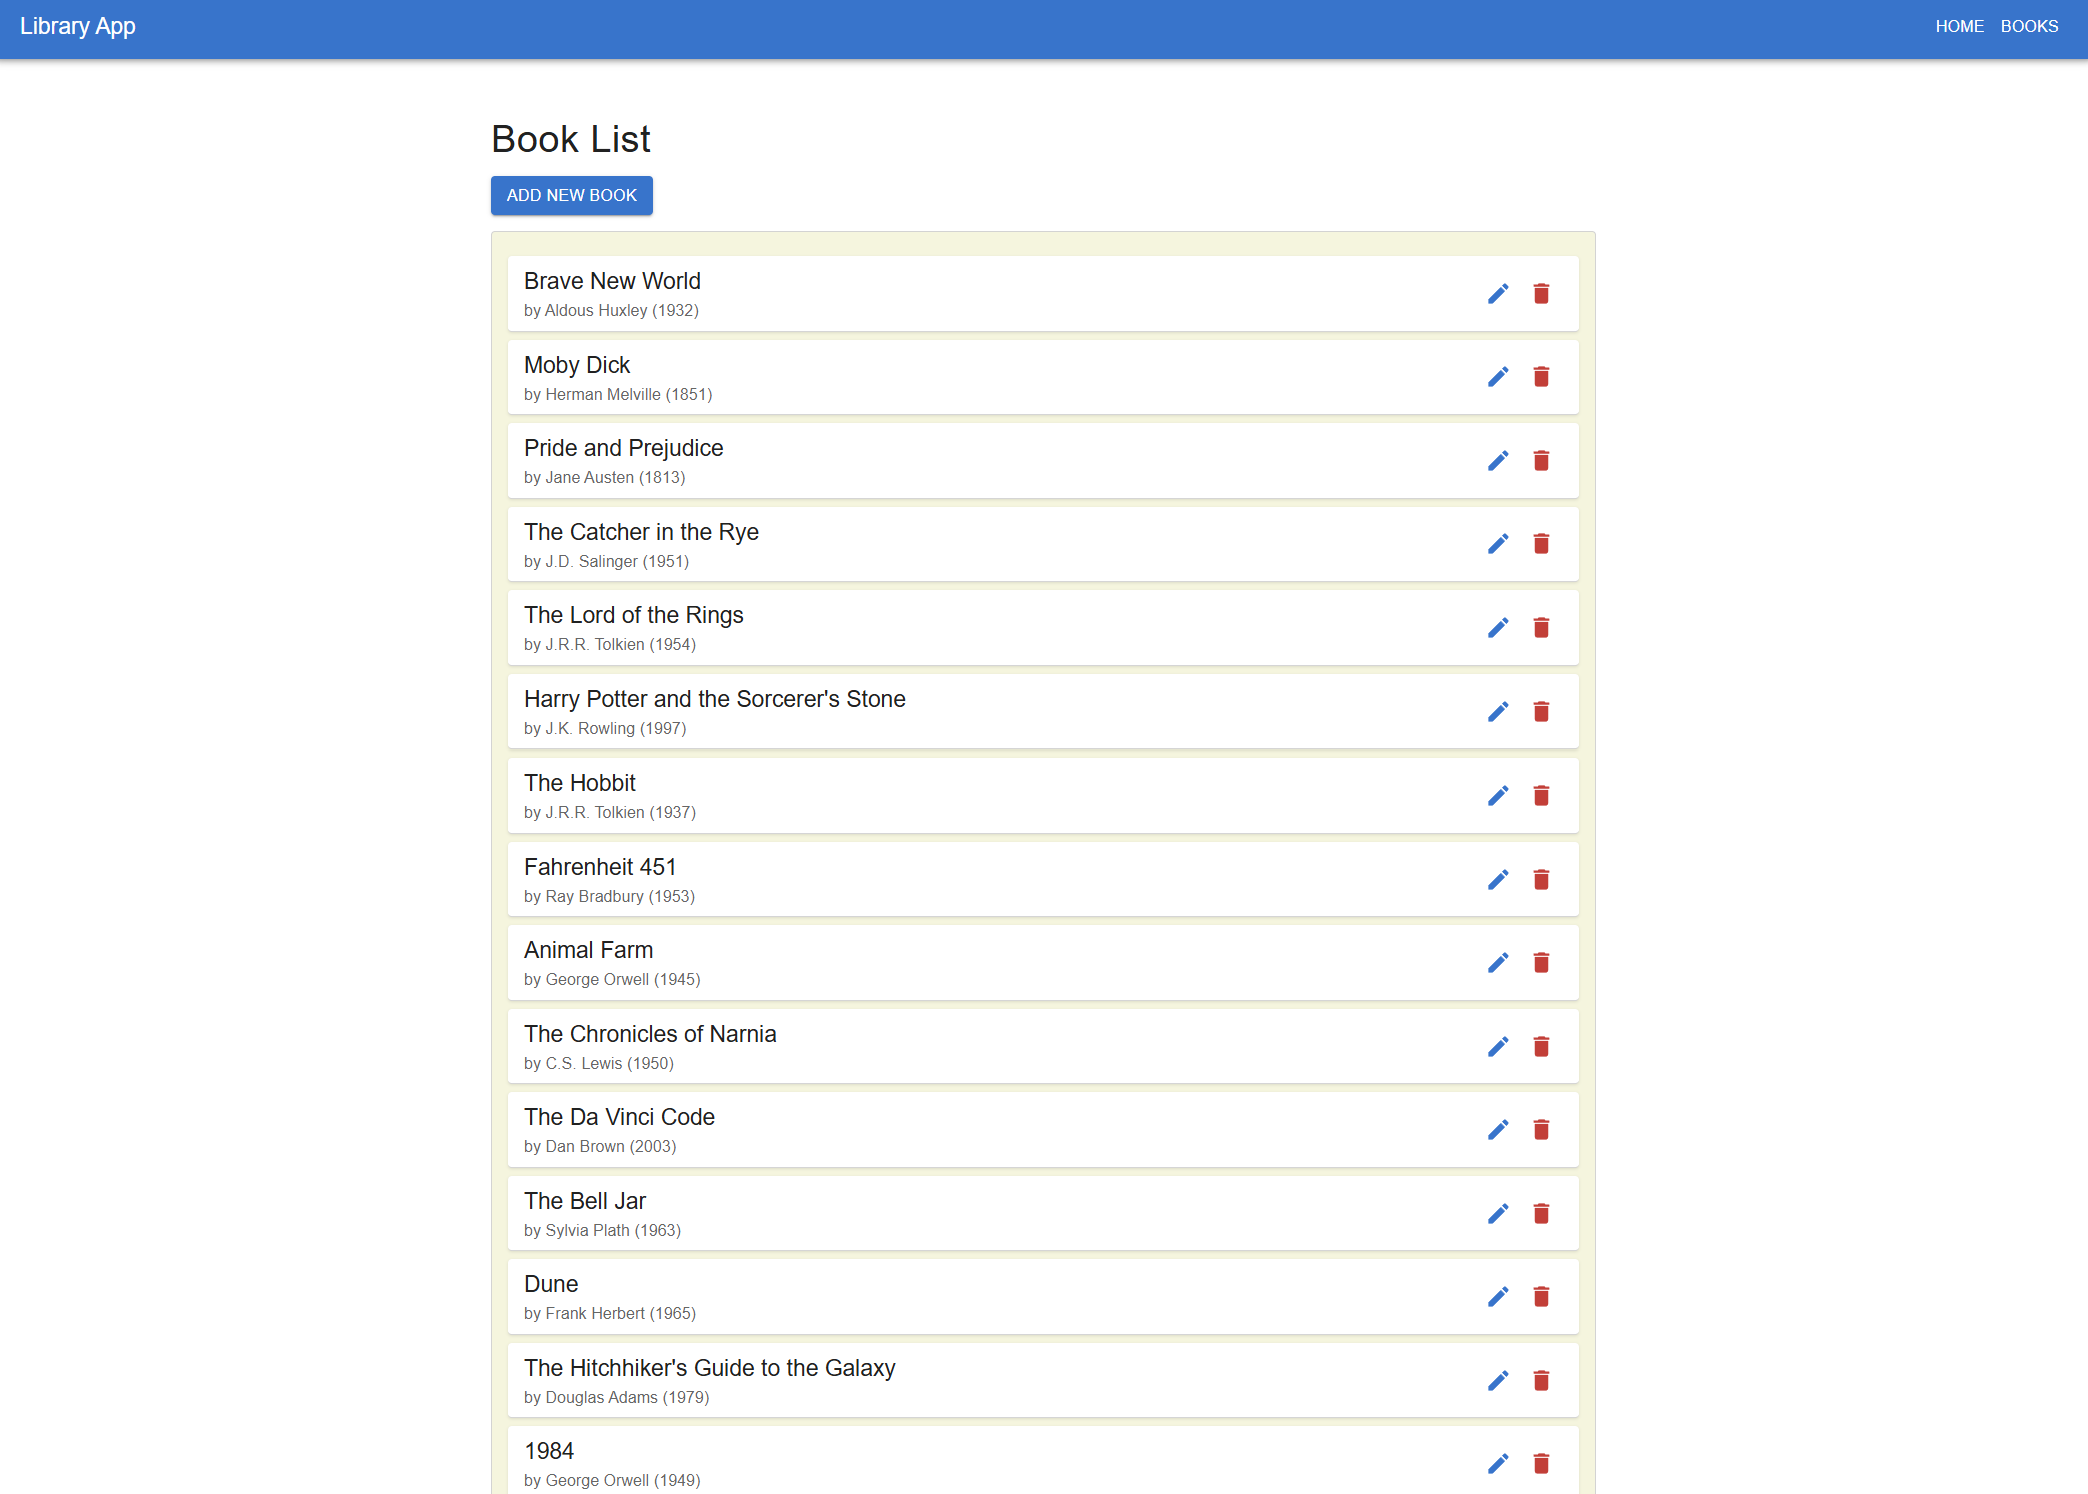
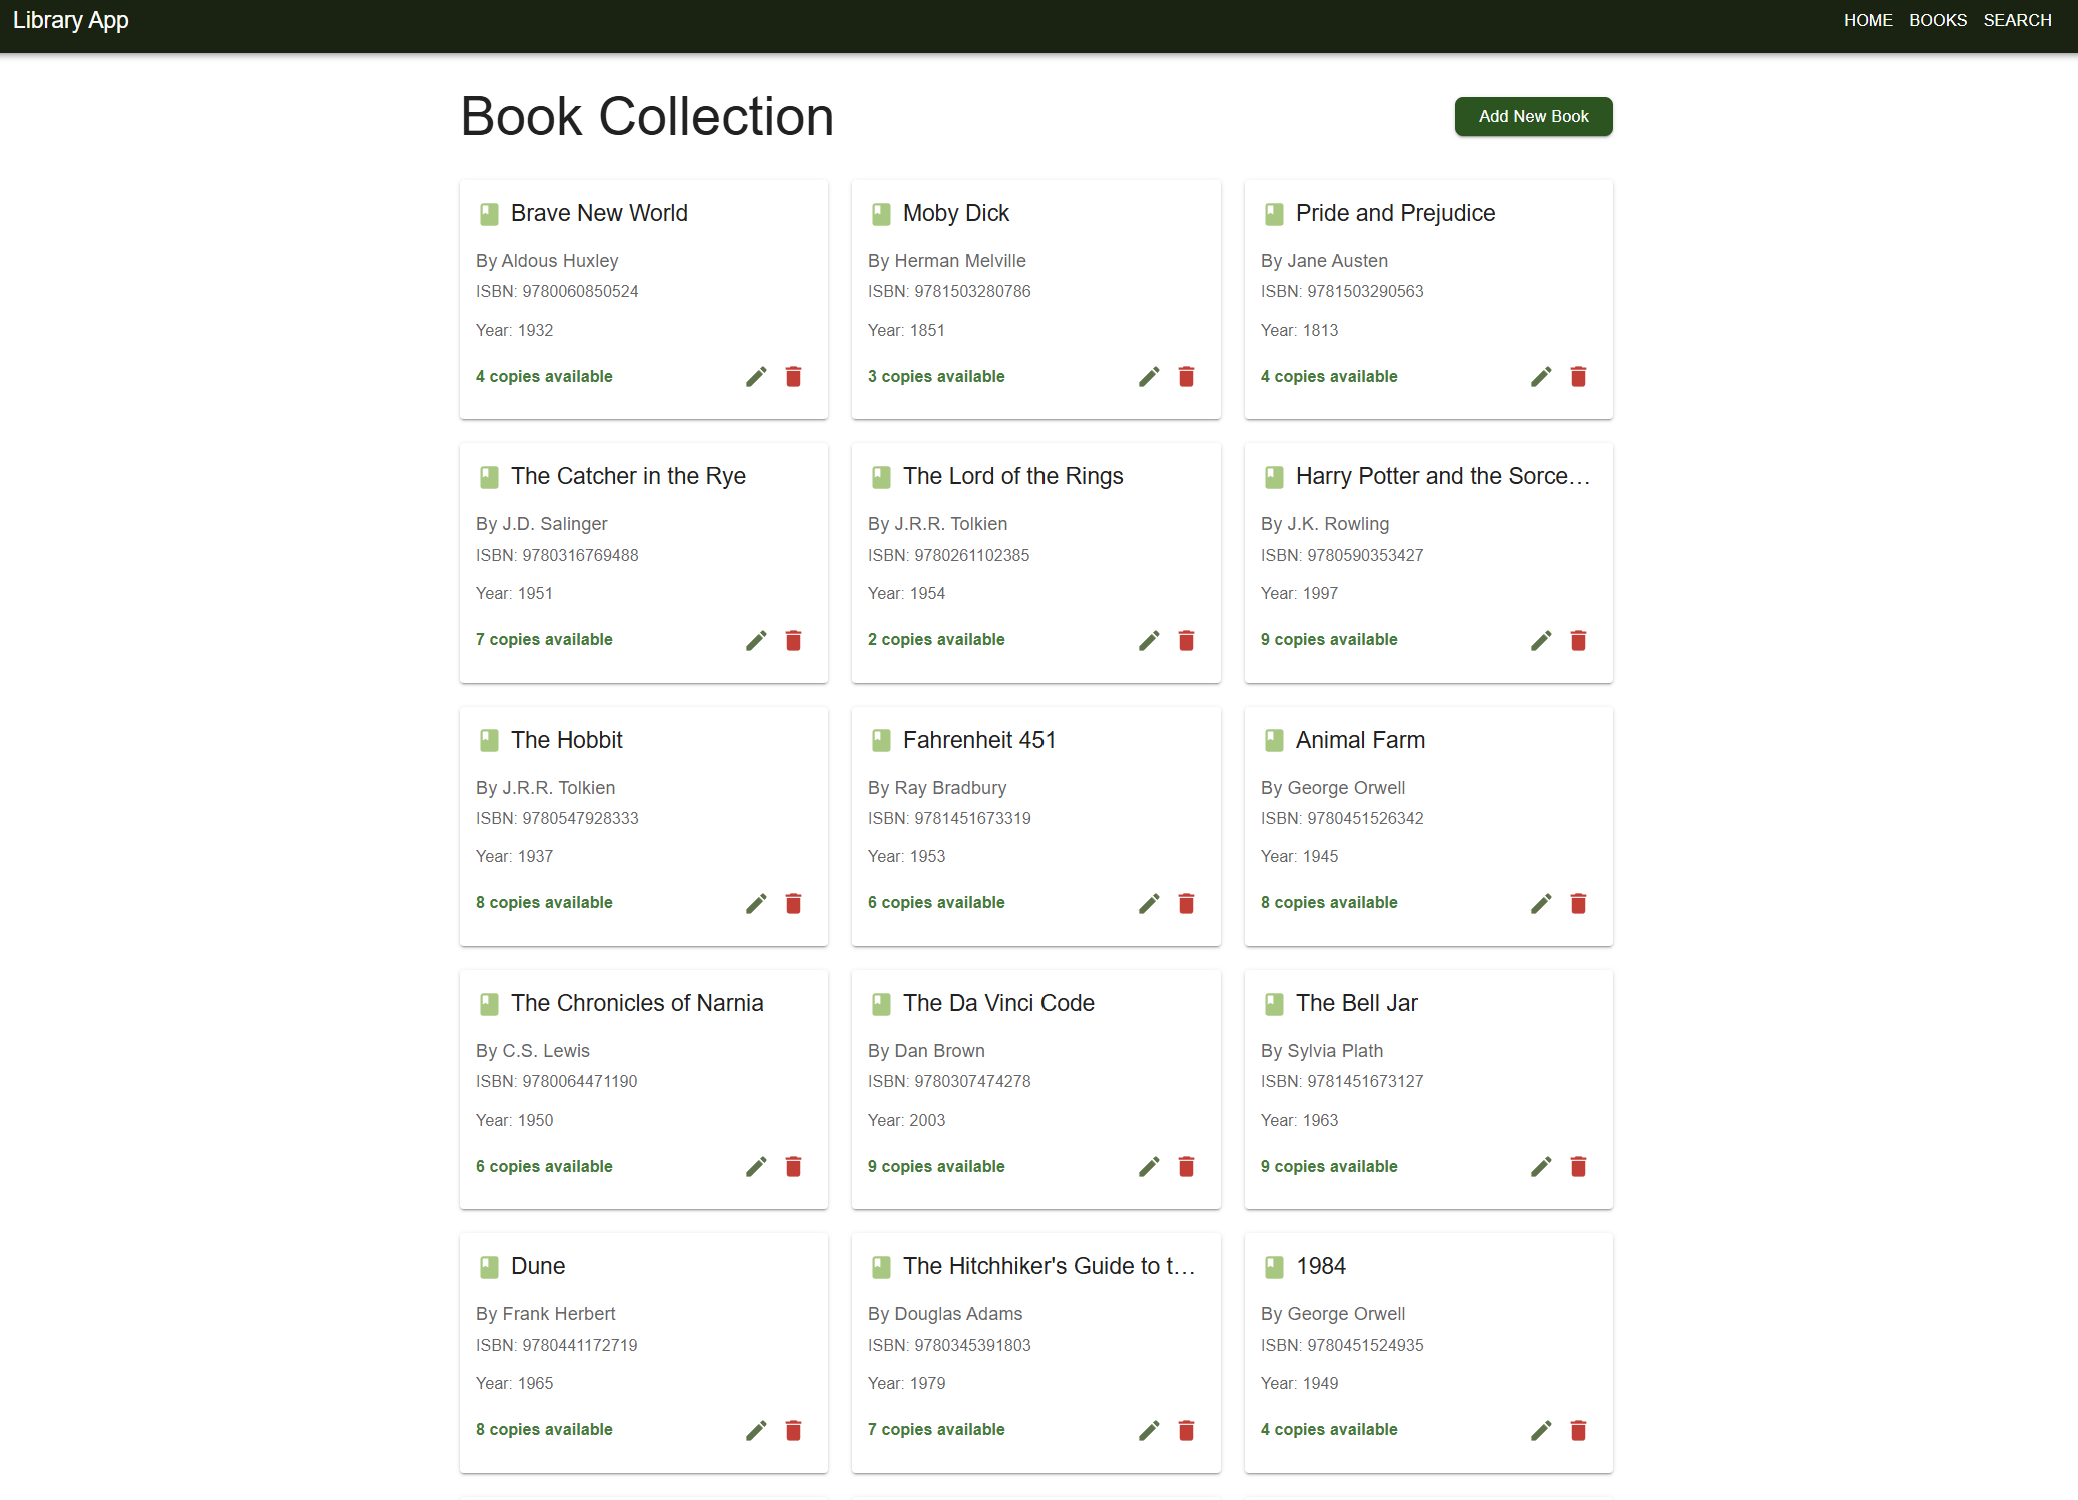
Added search functionality and final touches to the UI as well as minor README updates

Changed region(s): [[0.0, 0.0, 1.0, 1.0]]

diff --git a/README.md b/README.md
@@ -3,6 +3,37 @@
 ### Project Description
 The objective of this project is to create a book management system consisting of a microservice API developed using Java Spring Boot and a React application that consumes the API. The API will implement CRUD (Create, Read, Update, Delete) operations for managing book data and will be containerized using Docker.
 
+---
+
+## ✨ Frontend Demo Video
+
+Watch a video showcasing the frontend application:
+
+[![Frontend Demo Video](https://img.youtube.com/vi/aJ-A287gocY/0.jpg)](https://youtu.be/aJ-A287gocY)
+
+
+## 📸 Application Screenshots
+
+Here are some screenshots of the running application:
+
+### Docker Containers
+
+![Docker Containers Running](./images/containter.png)
+
+### Home Page
+
+![Home Page Screenshot](./images/HomePageReact.png)
+
+### Books Page
+
+![Books Page Screenshot](./images/BooksPageReact.png)
+
+### Search Page
+
+![Search Page Screenshot](./images/searchBooksPage.png)
+
+---
+
 ### Project Steps and Our Solution
 
 We followed the outlined steps to build the full-stack application:
@@ -146,6 +177,212 @@ JavaDevBookLibrary/
 ├── src/ # Original console app source
 └── target/ # Original console app build output
 ```
+
+---
+
+# Book Library on Console: 📚 Library Management System
+
+## 🔍 Overview
+The Library Management System is a Java-based console application designed to help librarians and library staff manage the library's collection of books. This project implements Java 8 features such as Lambda expressions, Method References, and Default Methods in interfaces to create a functional and efficient library management solution.
+
+The system provides a simple text-based menu for performing essential operations such as adding, editing, removing, and displaying books; registering, editing, removing, and searching for patrons; and managing book borrowing and returns. Additionally, the system includes a librarian authentication module where the user must sign up or log in with an email ending in @librarian.com. Passwords are securely hashed (using PBKDF2 with HMAC-SHA256) and stored in a file.
+
+## 💾 Data Persistence (Console App)
+
+Data persistence is implemented via text files:
+
+books.txt – stores book records in the format: title|author|isbn|copies|year|type
+patrons.txt – stores patron records in the format: id|name|contact
+librarians.txt – stores librarian authentication records (email, salt, hashed password)
+
+## ✨ Key Features (Console App)
+
+🔖 Book Management:
+
+Add Books: Enter book details (title, author, ISBN, number of copies) to add to the inventory.
+Remove Books: Remove books from the inventory (if no longer available or needed).
+Display Books: View a list of all available books.
+Edit Books: Search for a book by its ISBN, display current values, and update the book's information.
+Search Books: Optimized search by title or author using hash indices.
+👥 Patron Management:
+
+Register Patrons: Register new patrons by entering their name, ID, and contact details.
+View Patrons: Display all registered patrons.
+Edit Patrons: Update a patron's contact information by searching with their ID.
+Remove Patrons: Delete a patron from the system.
+Search Patrons: Search for a patron by ID and display their details along with borrowed books.
+🔄 Borrowing and Returning Books:
+
+Borrow Books: Allows patrons to borrow books; the system updates available copies and tracks which books are on loan.
+Return Books: Patrons can return borrowed books, which updates the inventory accordingly.
+Books per Patron: View the number of books a patron currently has borrowed and their details.
+🔒 Librarian Authentication:
+
+Sign Up/Log In: Before accessing the system, the user must authenticate as a librarian using an email that ends with @librarian.com.
+Secure Password Storage: Passwords are hashed (using PBKDF2 with HMAC-SHA256) along with a salt, and the credentials are stored in librarians.txt.
+👨💻 User-Friendly Interface:
+
+The application features a simple text-based menu and provides clear instructions at every step.
+Proper exception handling ensures that the application handles errors gracefully.
+
+## 📋 Java 8 Features Implementation (Console App)
+
+This project meets the requirements for "Exploring Lambdas, Method References, and Default Methods in Java" by implementing:
+
+1.  🔹 Lambda Expressions:
+    Used for filtering books in findBooksByAuthor, findBooksPublishedBefore, and findBooksByTitleContaining methods:
+    ```java
+    // Filter books by author
+    return bookInventory.stream()
+            .filter(book -> book.getAuthor().toLowerCase().contains(author.toLowerCase()))
+            .collect(Collectors.toList());
+    ```
+    Used for sorting books in sortBooksByTitle, sortBooksByYearAscending, and sortBooksByYearDescending methods:
+    ```java
+    // Sort books by title
+    return bookInventory.stream()
+            .sorted((b1, b2) -> b1.getTitle().compareTo(b2.getTitle()))
+            .collect(Collectors.toList());
+    ```
+2.  🔹 Method References:
+    Implemented in the printAllBooks default method:
+    ```java
+    // Default method to print all books
+    default void printAllBooks() {
+        getBooks().forEach(System.out::println);
+    }
+    ```
+    Used throughout the application for displaying books:
+    ```java
+    books.forEach(book -> book.display());
+    ```
+3.  🔹 Default Methods:
+    Implemented in the BookManager interface:
+    ```java
+    default void printAllBooks() {
+        getBooks().forEach(System.class::println);
+    }
+    ```
+    This allows all implementing classes (Library, LibraryManagementSystem) to inherit the method implementation.
+4.  🔹 Additional Features:
+    Advanced filtering capabilities
+    Multiple sorting methods
+    Support for ebooks and physical books through inheritance
+    Multi-threaded patron simulation
+
+## 🎯 Objectives (Console App)
+
+Object-Oriented Programming (OOP):
+Demonstrates the creation and use of classes and objects, encapsulation of data, and modeling of real-world entities (books and patrons).
+
+Java 8 Functional Programming:
+Effectively uses Lambdas, Method References, Default Methods, and Streams to handle collections and operations.
+
+Data Structures:
+Uses collections such as ArrayList, HashMap, and streams to manage and process data efficiently.
+
+Input/Output Handling:
+Manages user input and displays output in a console application.
+Incorporates file I/O to persist data.
+
+Exception Handling:
+Correct use of try-catch blocks to handle potential runtime errors and input mismatches.
+
+Multi-threading:
+Implements thread-safe operations and a multi-threaded simulation.
+
+## 🚀 How to Run the Console Application
+
+Clone the repository:
+
+```bash
+git clone https://github.com/marcheluki/JavaDevBookLibrary.git
+```
+
+Navigate to the project directory:
+
+```bash
+cd JavaDevBookLibrary
+```
+
+Compile the project:
+
+Using Maven:
+
+```bash
+mvn compile
+```
+
+Or manually:
+
+```bash
+javac -d target/classes src/main/java/library/*.java
+```
+
+Run the application:
+
+Using Maven:
+
+```bash
+mvn exec:java -Dexec.mainClass="library.LibraryManagementSystem"
+```
+
+Or manually:
+
+```bash
+java -cp target/classes library.LibraryManagementSystem
+```
+
+The application will first prompt for librarian authentication (sign up or log in). Once authenticated, the main menu will appear.
+
+## 🧪 Unit Testing (Console App)
+
+The project includes a comprehensive suite of unit tests to verify the functionality of all major components. These tests are designed using JUnit 5 and test the following classes:
+
+-   **Book**: Tests for constructors, getters, setters, and display methods
+-   **EBook**: Tests for EBook-specific functionality and inheritance from Book
+-   **Patron**: Tests for patron attributes, borrowing/returning books, and multi-threading
+-   **Library**: Tests for the BookManager implementation and book collection management
+-   **LibraryManagementSystem**: Tests for the main system functionality
+-   **BookManager**: Tests for the interface implementation
+-   **SimulationMain**: Tests for the multi-threaded simulation
+
+### Prerequisites for Testing
+
+To run the tests, you need:
+
+1.  JUnit 5 (JUnit Jupiter)
+2.  Maven (recommended)
+
+### Running Tests with Maven
+
+```bash
+# Navigate to the project directory
+cd JavaDevBookLibrary
+
+# Run all tests
+mvn test
+```
+
+### Running Tests Manually
+
+You can also run the TestRunner class to execute all tests:
+
+```bash
+java -cp target/test-classes:target/classes:lib/* TestRunner
+```
+
+The test results will show the number of tests run, any failures, and overall test success.
+
+### Book File Cleanup Feature
+
+We've implemented a custom JUnit extension called `BookCleanupExtension` that ensures your test books don't persist in your books.txt file. This extension:
+
+1.  Creates a standard backup of your books.txt file
+2.  Automatically restores this backup after tests run
+3.  Keeps your production data clean and test-free
+
+
 
 ---
 
